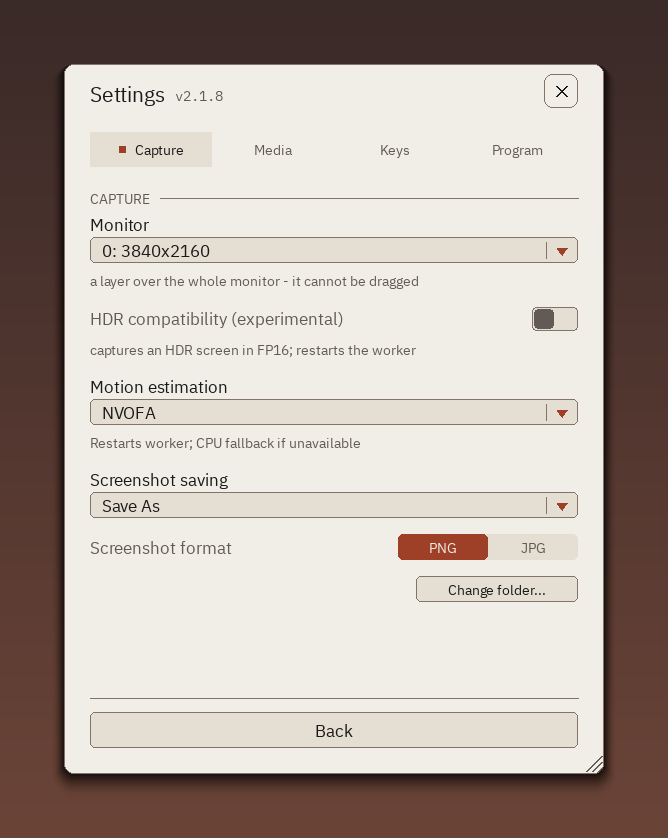
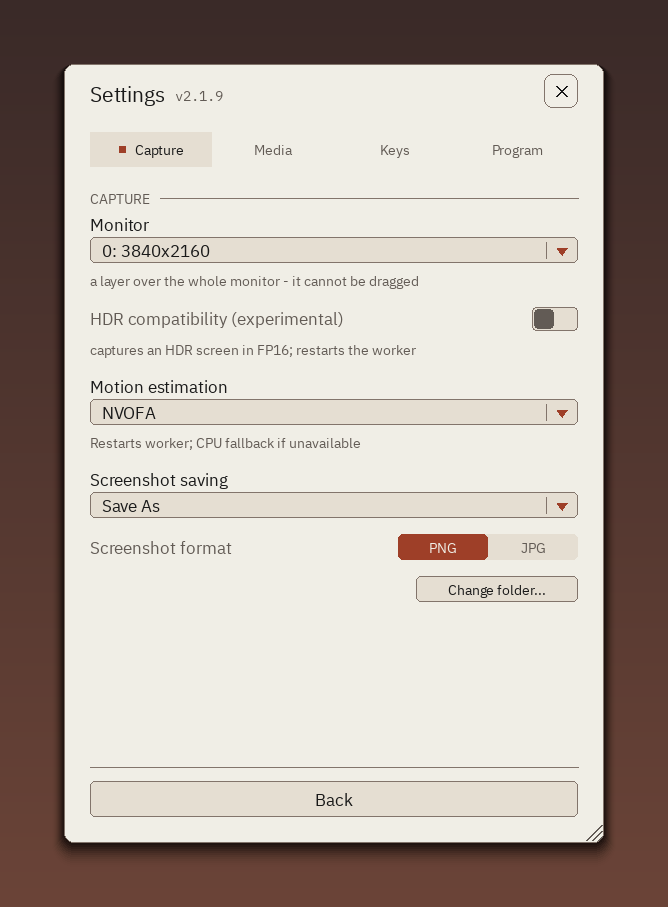
chore: v2.1.9 - version, rebuilt binaries, documentation screenshots
The version moves in the six lines RELEASING.md lists. The stale comment in
the worker's phase profiler is corrected in the same commit: it claimed the eval
GPU time does not depend on the input resolution, which was measured in the
legacy upscale mode and stopped holding once Boost became the default
(work_scale moves 3.4 ms with Boost on and 0.0 with it off).

diff --git a/native/dlss5-feed-host64.cpp b/native/dlss5-feed-host64.cpp
@@ -5970,10 +5970,27 @@ static bool UploadMotionOnly(VideoState &v, const BYTE *mv, bool motion_small,
 // much of that the GPU really computes.
 //
 // Measured (RTX 5070 Ti, 2560x1600 desktop): CPU 8.9 ms, GPU 8.0 ms - 0.9 ms
-// of overhead, the rest is real work. And the GPU time does not depend on the
-// input resolution: 7.9-8.6 ms over 0.37-3.32 MPix, nine times the pixels for
-// the same time. The model computes at its own internal resolution, which is
-// why work_scale never cost anything.
+// of overhead, the rest is real work.
+//
+// The numbers above were taken in the legacy upscale mode (nr_small off), and
+// in THAT mode the GPU time does not depend on the input resolution: 7.9-8.6 ms
+// over 0.37-3.32 MPix, nine times the pixels for the same time. The network is
+// handed the whole frame there and downsamples to the work size internally, so
+// the slider is a quality control, not a speed control - which is why it read
+// as "work_scale never cost anything".
+//
+// That reading stopped holding once Boost (nr_small) became the shipped
+// default: with it on the network IS handed the work size, and the slider costs
+// exactly what it says. Measured as a 2x2 on eval GPU, work_scale 0.6 against
+// 0.3 at a 4K desktop:
+//
+//                   scale 0.6   scale 0.3
+//     Boost on        6.15 ms     2.75 ms
+//     Boost off      15.97 ms    15.90 ms
+//
+// So the scale moves nothing with Boost off and 3.4 ms with it on. TECHNICAL.md
+// carries the same correction under "work_scale costs nothing (in upscale mode)"
+// - the mode matters, and this comment used to leave it out.
 // ---------------------------------------------------------------------------
 static ID3D12QueryHeap *g_ts_heap;
 static ID3D12Resource  *g_ts_readback;

diff --git a/app/settings_io.py b/app/settings_io.py
@@ -202,7 +202,7 @@ def _set_autostart(enabled: bool) -> bool:
 
 # The version shown in the menu header. Kept in sync with native/launcher.rc
 # (FileVersion/ProductVersion) and build_release_zip.py at release time.
-APP_VERSION = "2.1.8"
+APP_VERSION = "2.1.9"
 
 
 # The channel label: the header shows the version, the channel lives in the

diff --git a/build_release_zip.py b/build_release_zip.py
@@ -32,7 +32,7 @@ from typing import Iterable, Sequence
 
 
 BASE = Path(__file__).resolve().parent
-VERSION = "2.1.8"
+VERSION = "2.1.9"
 EXPECTED_TAG = f"v{VERSION}"
 TARGET_ARCHS = (
     "RTX 30/40/50 (sm_86/89/120 kernels, spoof 0x1B0; "

diff --git a/CHANGELOG.md b/CHANGELOG.md
@@ -30,7 +30,7 @@ Scope and honesty notes:
 
 ---
 
-## Unreleased
+## v2.1.9 - 2026-09-29 - Three tracker reports: full speed when hidden, the Windows 10 window mode, and a panel that opened itself
 
 * **Full speed while the window is hidden (#137).** The report: the picture is
   smooth while the program is open and collapses the moment it is minimised or
